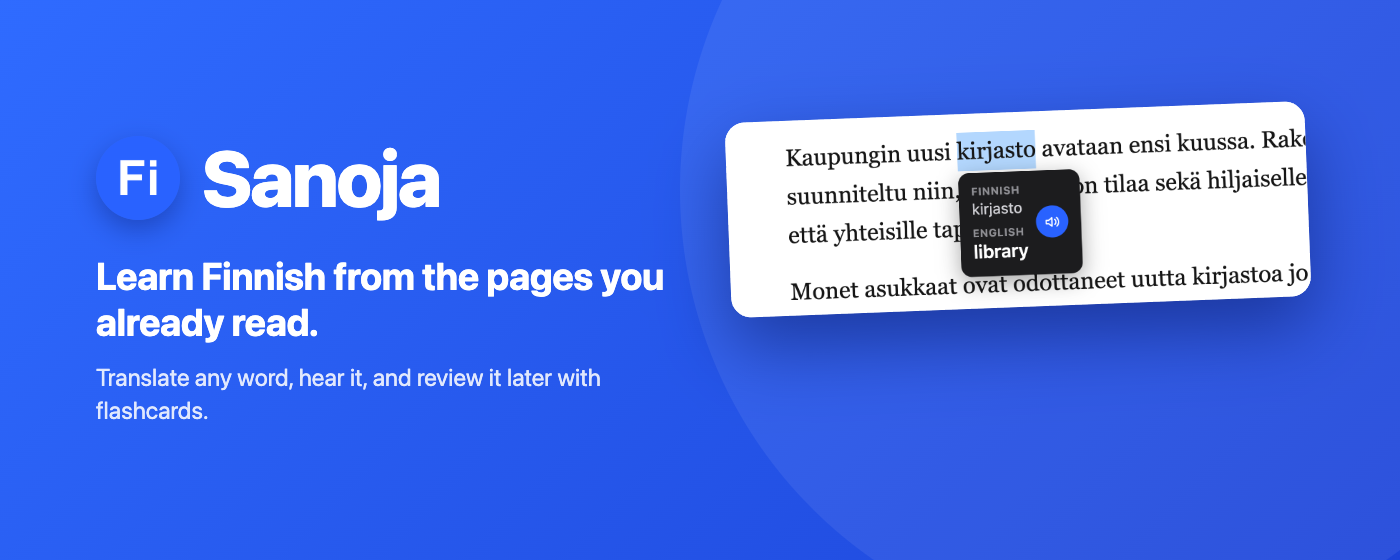
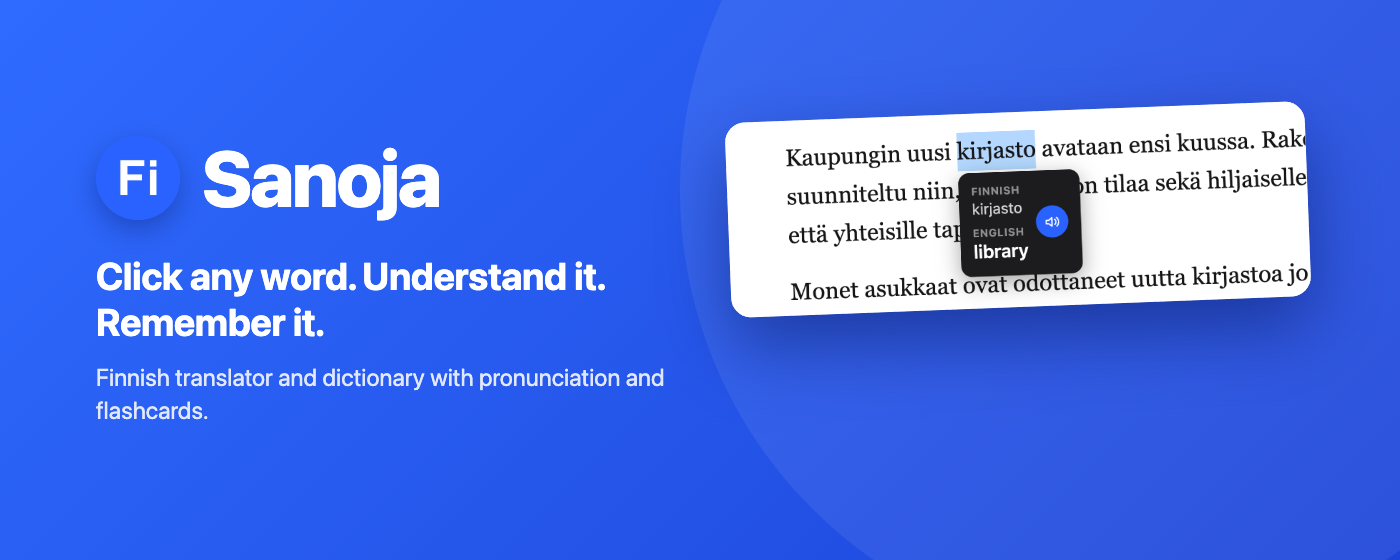
Rewrite marquee headline and listing opener for learners
'Learn Finnish from the pages you already read' assumed the reader can
already read Finnish. Use 'Click any word. Understand it. Remember it.' on
the marquee and 'Understand Finnish as you browse, and actually remember
the words you look up.' as the description opener (English and Finnish).

Changed region(s): [[0.0614, 0.4554, 0.4914, 0.6071], [0.0614, 0.6375, 0.4914, 0.6982]]

diff --git a/store-assets/STORE_LISTING_DRAFT.md b/store-assets/STORE_LISTING_DRAFT.md
@@ -17,7 +17,7 @@ English–Finnish translator and dictionary: select any word on a page, hear it,
 
 ## 3. Detailed description (English)
 
-Learn Finnish from the pages you already read.
+Understand Finnish as you browse, and actually remember the words you look up.
 
 Sanoja is an English–Finnish translator and dictionary that works inside your browser. Select or double-click any word or short phrase on any website: English shows in Finnish, Finnish shows in English, detected automatically with no language picker. One click plays the Finnish pronunciation.
 
@@ -42,7 +42,7 @@ Suomi–englanti-sanakirja: valitse sana miltä tahansa sivulta, kuuntele se ja 
 
 Description:
 
-Opi suomea lukemiesi sivujen avulla.
+Ymmärrä suomea selatessasi ja muista hakemasi sanat.
 
 Sanoja on englannin ja suomen välinen kääntäjä ja sanakirja selaimessasi. Valitse tai kaksoisnapsauta mitä tahansa sanaa tai lyhyttä ilmausta millä tahansa verkkosivulla: englanti käännetään suomeksi ja suomi englanniksi, ja kieli tunnistetaan automaattisesti. Yhdellä napsautuksella kuulet suomenkielisen ääntämisen.
 
